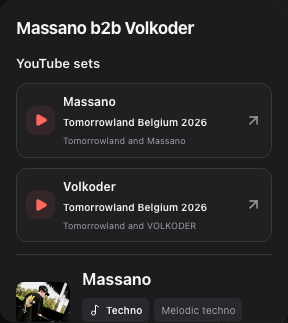
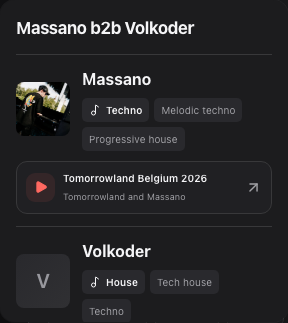
revert: restore individual b2b set links

diff --git a/src/components/artist.tsx b/src/components/artist.tsx
@@ -58,34 +58,24 @@ export function SetLink({
   language,
   compact = false,
   representative,
-  artistName,
 }: {
   recording: Recording | undefined;
   language: Language;
   compact?: boolean;
   representative?: boolean;
-  artistName?: string;
 }) {
   const t = messages(language);
   if (!recording)
     return (
       <div className="set-unavailable">
         <Disc3 size={17} />
-        <span>
-          {artistName && <strong>{artistName} · </strong>}
-          {t.unavailable}
-        </span>
+        <span>{t.unavailable}</span>
       </div>
     );
   return (
     <a
       className={`set-link ${compact ? 'compact-set' : ''}`}
       href={recording.youtubeUrl}
-      aria-label={
-        artistName
-          ? `${artistName} · ${recording.eventLabel} · YouTube${(representative ?? recording.representative) ? ` · ${t.representative}` : ''}`
-          : undefined
-      }
       target="_blank"
       rel="noreferrer"
     >
@@ -93,7 +83,6 @@ export function SetLink({
         <Play size={compact ? 14 : 18} fill="currentColor" />
       </span>
       <span className="set-link-text">
-        {artistName && <span className="set-artist-name">{artistName}</span>}
         <strong>{recording.eventLabel}</strong>{' '}
         <span>
           {(representative ?? recording.representative) ? t.representative : recording.channel}
@@ -101,26 +90,6 @@ export function SetLink({
       </span>
       <ArrowUpRight size={17} />
     </a>
-  );
-}
-export function MemberSetLinks({ members, language }: { members: Artist[]; language: Language }) {
-  const t = messages(language);
-  return (
-    <section className="member-set-links" aria-label={t.youtubeSets}>
-      <h3>{t.youtubeSets}</h3>
-      {members.map((member) => (
-        <SetLink
-          key={member.id}
-          artistName={member.name}
-          recording={
-            member.recommendedSetId ? recordingById.get(member.recommendedSetId) : undefined
-          }
-          language={language}
-          representative={member.recommendedSetRepresentative}
-          compact
-        />
-      ))}
-    </section>
   );
 }
 function Preview({ artist, language }: { artist: Artist; language: Language }) {
@@ -132,7 +101,6 @@ function Preview({ artist, language }: { artist: Artist; language: Language }) {
     return (
       <div className="preview-body">
         <strong className="preview-name">{artist.name}</strong>
-        <MemberSetLinks members={members} language={language} />
         {members.map((member) => (
           <section className="preview-member" aria-label={member.name} key={member.id}>
             <div className="preview-member-heading">
@@ -142,6 +110,14 @@ function Preview({ artist, language }: { artist: Artist; language: Language }) {
                 <Genres artist={member} language={language} />
               </div>
             </div>
+            <SetLink
+              recording={
+                member.recommendedSetId ? recordingById.get(member.recommendedSetId) : undefined
+              }
+              language={language}
+              representative={member.recommendedSetRepresentative}
+              compact
+            />
           </section>
         ))}
         {recording && !(artist.recommendedSetRepresentative ?? recording.representative) && (

diff --git a/e2e/planner.spec.ts b/e2e/planner.spec.ts
@@ -307,14 +307,10 @@ test('b2b details show both artists with independent recording ratings and one p
     const preview = page.locator('.artist-preview');
     await expect(preview.getByText(name, { exact: true })).toBeInViewport({ ratio: 1 });
     await expect(
-      preview
-        .getByRole('region', { name: 'YouTube sets', exact: true })
-        .getByRole('link', { name: /^Massano .*YouTube/ })
+      preview.getByRole('region', { name: 'Massano', exact: true }).getByRole('link')
     ).toHaveAttribute('href', 'https://www.youtube.com/watch?v=Myv0L3opWEI');
     await expect(
-      preview
-        .getByRole('region', { name: 'YouTube sets', exact: true })
-        .getByRole('link', { name: /^Volkoder .*YouTube/ })
+      preview.getByRole('region', { name: 'Volkoder', exact: true }).getByRole('link')
     ).toHaveAttribute('href', 'https://www.youtube.com/watch?v=nSYt0B-EGwA');
     if (testInfo.project.name === 'chromium') {
       await preview
@@ -325,16 +321,6 @@ test('b2b details show both artists with independent recording ratings and one p
   }
   await label.click();
   const dialog = page.getByRole('dialog', { name, exact: true });
-  const setLinks = dialog.getByRole('region', { name: 'YouTube sets', exact: true });
-  await expect(setLinks.getByRole('link')).toHaveCount(2);
-  await expect(setLinks.getByRole('link', { name: /^Massano .*YouTube/ })).toHaveAttribute(
-    'href',
-    'https://www.youtube.com/watch?v=Myv0L3opWEI'
-  );
-  await expect(setLinks.getByRole('link', { name: /^Volkoder .*YouTube/ })).toHaveAttribute(
-    'href',
-    'https://www.youtube.com/watch?v=nSYt0B-EGwA'
-  );
   const massano = dialog.getByRole('region', { name: 'Massano', exact: true });
   const volkoder = dialog.getByRole('region', { name: 'Volkoder', exact: true });
   await expect(massano.getByText('Progressive house', { exact: true })).toBeVisible();
@@ -352,9 +338,6 @@ test('b2b details show both artists with independent recording ratings and one p
   await expect(
     dialog.getByRole('heading', { name: 'Artistas desta apresentação', exact: true })
   ).toBeVisible();
-  await expect(
-    dialog.getByRole('region', { name: 'Sets no YouTube', exact: true }).getByRole('link')
-  ).toHaveCount(2);
   await expect(massano.getByRole('spinbutton')).toHaveValue('0');
   await expect(volkoder.getByRole('spinbutton')).toHaveValue('8');
   await expect(dialog.getByRole('combobox')).toHaveValue('P0');

diff --git a/src/components/artist-details.tsx b/src/components/artist-details.tsx
@@ -4,7 +4,7 @@ import { appearancesFor, artistById, catalog, recordingById, membersFor } from '
 import { dayName, longDate, messages, priorityLabel } from '../i18n';
 import { usePlanner } from '../store/planner';
 import { PRIORITIES, type Artist, type Language, type Priority } from '../types';
-import { Genres, Portrait, SetLink, MemberSetLinks } from './artist';
+import { Genres, Portrait, SetLink } from './artist';
 import { Modal } from './ui/modal';
 
 export function ArtistDetails({
@@ -40,7 +40,6 @@ export function ArtistDetails({
       <div className="artist-modal-scroll">
         {!members.length && <Portrait artist={artist} className="artist-hero" />}
         <div className="artist-detail-body">
-          {members.length > 0 && <MemberSetLinks members={members} language={language} />}
           {!members.length && (
             <>
               <div className="detail-topline">

diff --git a/src/i18n.ts b/src/i18n.ts
@@ -41,7 +41,6 @@ const en = {
   officialDay: 'Official performance day',
   related: 'Festival performances',
   fromB2b: 'from b2b',
-  youtubeSets: 'YouTube sets',
   jointArtists: 'Artists in this performance',
   jointRecording: 'Joint performance recording',
   notes: 'Your comment',
@@ -143,7 +142,6 @@ const pt: typeof en = {
   officialDay: 'Dia oficial da apresentação',
   related: 'Apresentações no festival',
   fromB2b: 'do b2b',
-  youtubeSets: 'Sets no YouTube',
   jointArtists: 'Artistas desta apresentação',
   jointRecording: 'Gravação da apresentação conjunta',
   notes: 'Seu comentário',

diff --git a/src/index.css b/src/index.css
@@ -1993,20 +1993,3 @@ fieldset {
 .member-details-body .detail-topline h3 {
   font-size: 20px;
 }
-
-.member-set-links {
-  display: grid;
-  gap: 10px;
-}
-.member-set-links > h3 {
-  font-size: 13px;
-  font-weight: 600;
-}
-.artist-detail-body > .member-set-links {
-  margin-bottom: 20px;
-}
-.set-link .set-link-text > .set-artist-name {
-  color: var(--text);
-  font-size: 12px;
-  font-weight: 650;
-}
